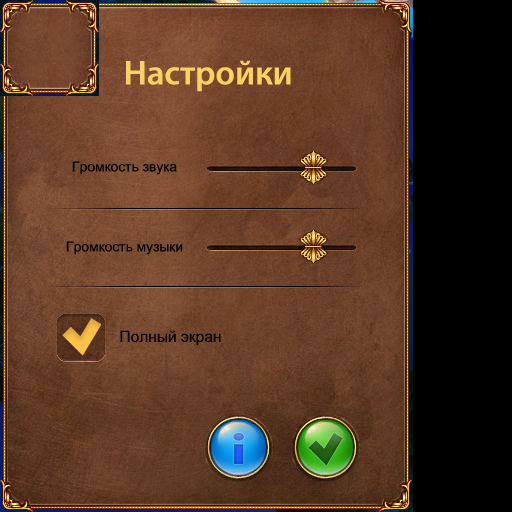
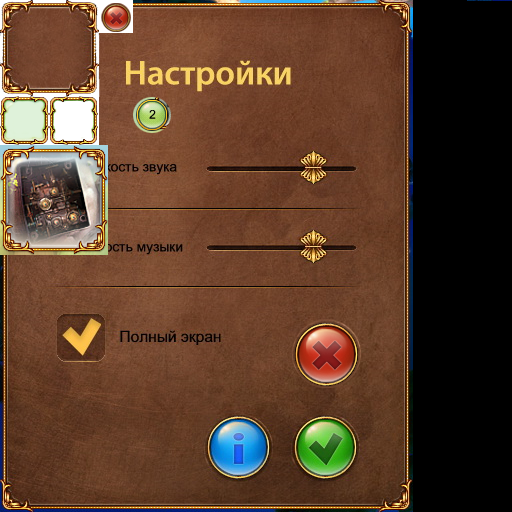
a bit of aestetic tweaks for ui

Changed region(s): [[0.0, 0.0, 0.2812, 0.5], [0.5625, 0.625, 0.7188, 0.75], [0.25, 0.1875, 0.3438, 0.2812]]

diff --git a/src/ne/ui/NE_GUI_Inventory.java b/src/ne/ui/NE_GUI_Inventory.java
@@ -20,6 +20,7 @@ import java.util.Iterator;
 import ne.Game;
 import ne.Input.MouseInputType;
 import org.newdawn.slick.Color;
+import render.AreaRenderer;
 import render.overlay.OverlaySystem;
 
 /**
@@ -31,7 +32,7 @@ public class NE_GUI_Inventory extends NE_GUI_FrameModern implements IEventListen
     NE_GUI_Element inv_layer;
 
 
-
+    AreaRenderer area_renderer;
 
 
     public NE_GUI_Inventory(){
@@ -51,6 +52,20 @@ public class NE_GUI_Inventory extends NE_GUI_FrameModern implements IEventListen
             public void e_on_mouse_click(EMouseClick e){
                 System.out.println("InventoryLayer::click");
             }
+
+            @Override
+            public void render(){
+                int qx;
+                int qy;
+
+                for(int i=0; i< 15; i++){
+                    qx = get_x() + get_item_x(i) * (32+8) - 20;
+                    qy = get_y() + get_item_y(i) * (32+8) - 12;
+                    area_renderer.render(qx, qy, 40, 40);
+                }
+
+                super.render();
+            }
         };
 
         inv_layer.x = 32;
@@ -63,6 +78,10 @@ public class NE_GUI_Inventory extends NE_GUI_FrameModern implements IEventListen
         inv_layer.dragable = false;
         
         add(inv_layer);
+
+        area_renderer = new AreaRenderer();
+        area_renderer.set_rect(0, 96, 48, 48);  //bg
+        //area_renderer.set_rect(48, 96, 48, 48);  //invisible bg
 
     }
 
@@ -103,11 +122,13 @@ public class NE_GUI_Inventory extends NE_GUI_FrameModern implements IEventListen
 
             item_control.sprite_name = "/render/gfx/items/"+ item.get_type() +".png";
 
-            item_control.x = get_item_x(i) * 32;
-            item_control.y = get_item_y(i) * 32;
+            item_control.x = get_item_x(i) * (32+8) - 16;
+            item_control.y = get_item_y(i) * (32+8) - 8;
 
             item_control.w = 32;
             item_control.h = 32;
+
+            
 
             //item_control.dragable = false;
         }

diff --git a/src/ne/ui/NE_GUI_FrameModern.java b/src/ne/ui/NE_GUI_FrameModern.java
@@ -23,8 +23,8 @@ public class NE_GUI_FrameModern extends NE_GUI_Frame {
     public NE_GUI_FrameModern(){
         super(false);
         area_renderer = new AreaRenderer();
-        area_renderer.w = 34;
-        area_renderer.h = 34;
+        area_renderer.w = 32;
+        area_renderer.h = 32;
     }
 
     @Override
@@ -41,31 +41,31 @@ public class NE_GUI_FrameModern extends NE_GUI_Frame {
 
         switch(tile_id){
             case 0: //ul
-                area_renderer.set_coord(0,0);
+                area_renderer.set_rect(0,0, 34, 34);
             break;
             case 1:
-                area_renderer.set_coord(34,0);
+                area_renderer.set_rect(34,0, 32, 32);
             break;
             case 2: //ur
-                area_renderer.set_coord(64,0);
+                area_renderer.set_rect(64,0, 34, 34);
             break;
             case 4: //ml
-                area_renderer.set_coord(0,32);
+                area_renderer.set_rect(0,32, 32, 32);
             break;
             case 5: //mc
-                area_renderer.set_coord(34,32);
+                area_renderer.set_rect(34,32, 32, 32);
             break;
             case 6: //mr
-                area_renderer.set_coord(64,32);
+                area_renderer.set_rect(64,32, 32,32);
             break;
             case 8: //bl
-                area_renderer.set_coord(0,62);
+                area_renderer.set_rect(0,62, 34, 34);
             break;
             case 9: //bc
-                area_renderer.set_coord(34,62);
+                area_renderer.set_rect(34,62, 32, 32);
             break;
             case 10: //br
-                area_renderer.set_coord(64,62);
+                area_renderer.set_rect(64,62, 34, 34);
             break;
         }
         area_renderer.render(tile_x,tile_y);

diff --git a/src/render/AreaRenderer.java b/src/render/AreaRenderer.java
@@ -68,8 +68,11 @@ public class AreaRenderer {
     }
 
     public void render(int quad_x, int quad_y){
+        render(quad_x,quad_y,w,h);
+    }
+    public void render(int quad_x, int quad_y, int quad_w, int quad_h){
         glColor3f(1.0f, 1.0f, 1.0f);
         Render.bind_texture(texture_name);
-        draw_quad(quad_x,quad_y,w,h);
+        draw_quad(quad_x,quad_y,quad_w,quad_h);
     }
 }

diff --git a/src/ne/ui/NE_GUI_InventoryItem.java b/src/ne/ui/NE_GUI_InventoryItem.java
@@ -29,6 +29,8 @@ public class NE_GUI_InventoryItem extends NE_GUI_Sprite {
     
         //NE_GUI_Quickslot quickslot;
 
+        //AreaRenderer area_renderer;
+
         BaseItem item;
         NE_GUI_InventoryItem(BaseItem item){
             this.item = item;
